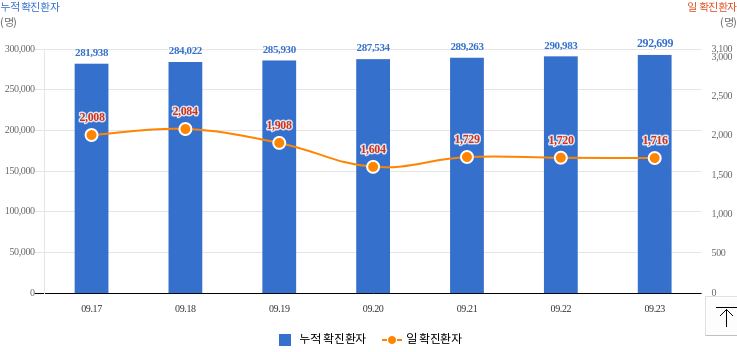
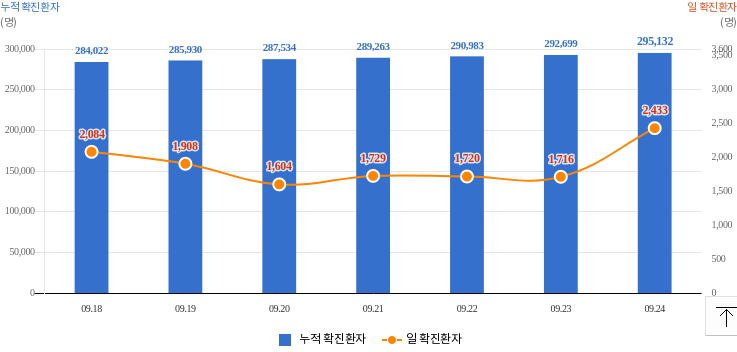
Run crawler and update current data

diff --git a/data.js b/data.js
@@ -7,7 +7,7 @@ var 검사중 = '3,207';
 var 검사결과 = '435,976';
 var 자가격리자 = '171';
 var 거리두기단계 = '사회적 거리두기  3단계 시행 : 2021.9.6.(월) 0시 ~ 10.3.(일) 24시';
-var 국내발생 = '1,698';
+var 국내발생 = '2,416';
 var 해외발생 = '18';
-var 합계 = '1716';
+var 합계 = '2434';
 var data = [];
